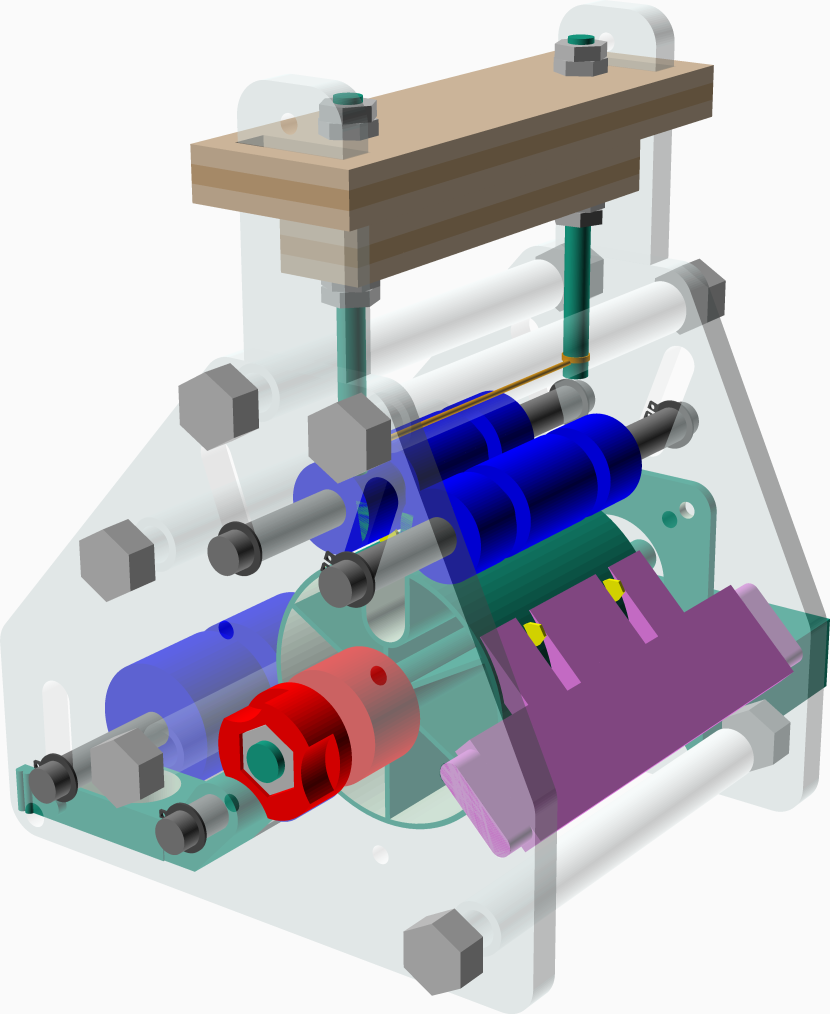
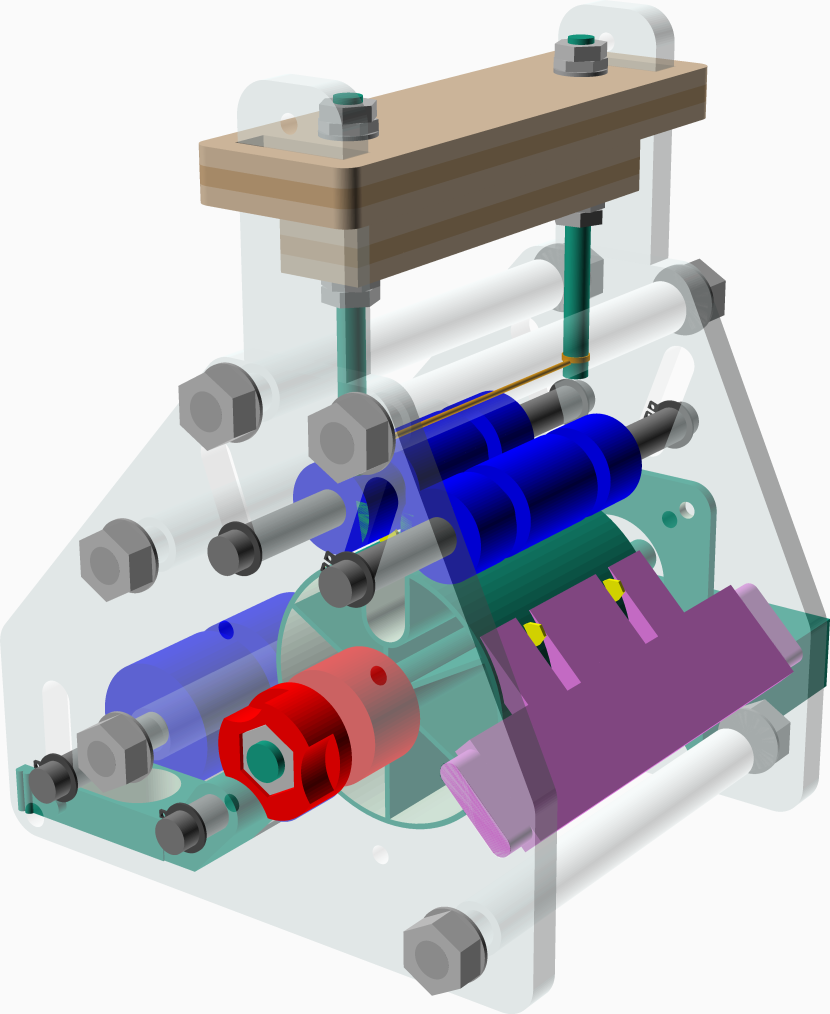
Make rounded knife slider. Move some smallish things into util.scad

diff --git a/README.md b/README.md
@@ -30,14 +30,13 @@ provides all the parts needed to print a machine that can cut two bands in
 parallel.
 
 #### Changing parallel bands
-If the `stack` parameter in the [SCAD file](./band-cutter-machine.scad#L7)
-is changed, a machine that can cut up to 5 bands in parallel can can fit on
-a Prusa MK3 bed.
-Change the value, then
+By default, the stack of bands that is cut in parallel is two, but that
+can be changed with a parameter. A machine that can cut up to 5 bands in
+parallel can fit on a Prusa MK3 bed.
 
 ```bash
-make     # to build the new artifacts
-cd fab/  # because prusa-slicer 3MF does not handle relative paths...
+make BAND_STACK=5  # to build the new artifacts; here we want 5 bands
+cd fab/            # because prusa-slicer 3MF does not handle relative paths...
 prusa-slicer band-cutter-machine.3mf
 # Now, press F5 in the UI for reload.
 ```
@@ -62,7 +61,7 @@ There are two files, provided as DXF format that need to be laser-cut.
   * `fab/laser_cut_mount_panel.dxf` can be wood, but ideally transparent
     acrylic to inspect the inside of the machine.
 
- Knife Slider (pretty small)        | Mount Panel (much larger)
+ Knife Slider (plywood, 3mm)        | Mount Panel (acrylic, 6mm)
 ------------------------------------|------------------------------------
 ![](img/laser_cut_knife_slider.png) | ![](img/laser_cut_mount_panel.png)
 
